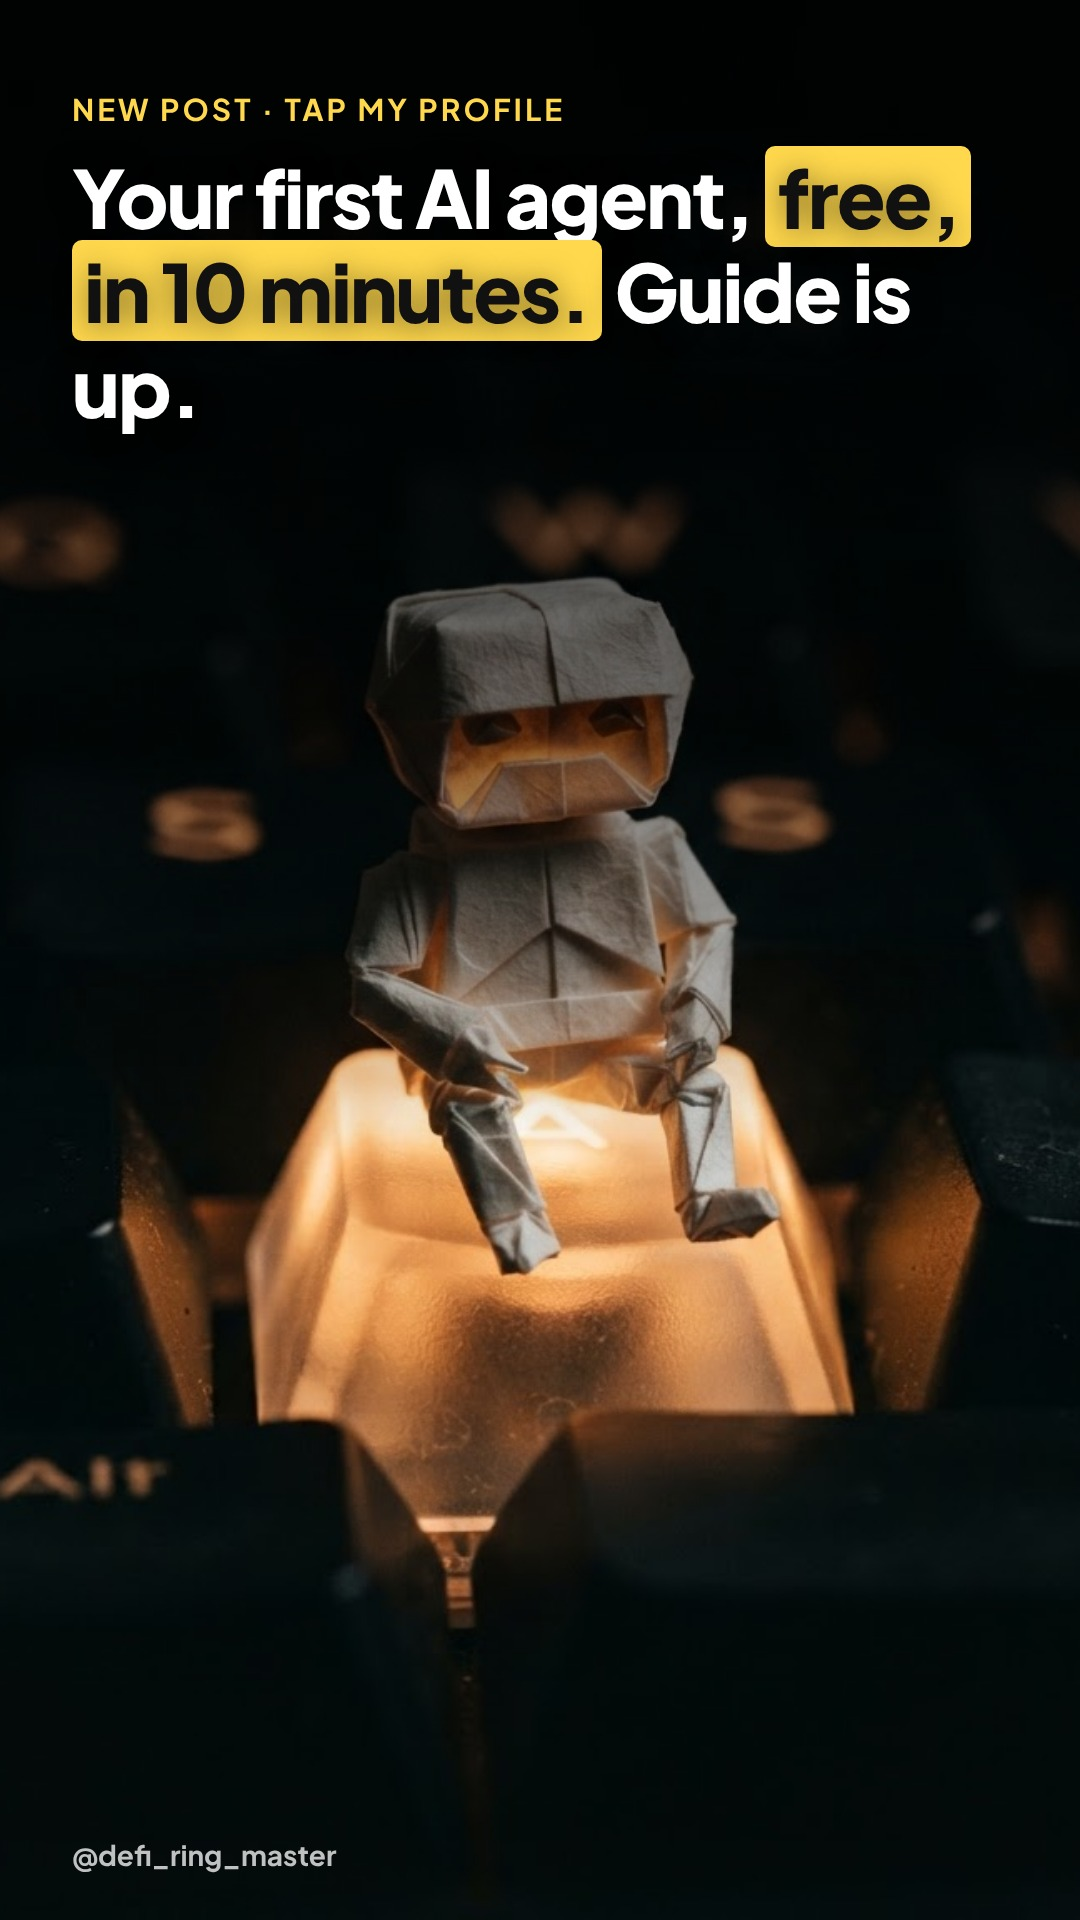
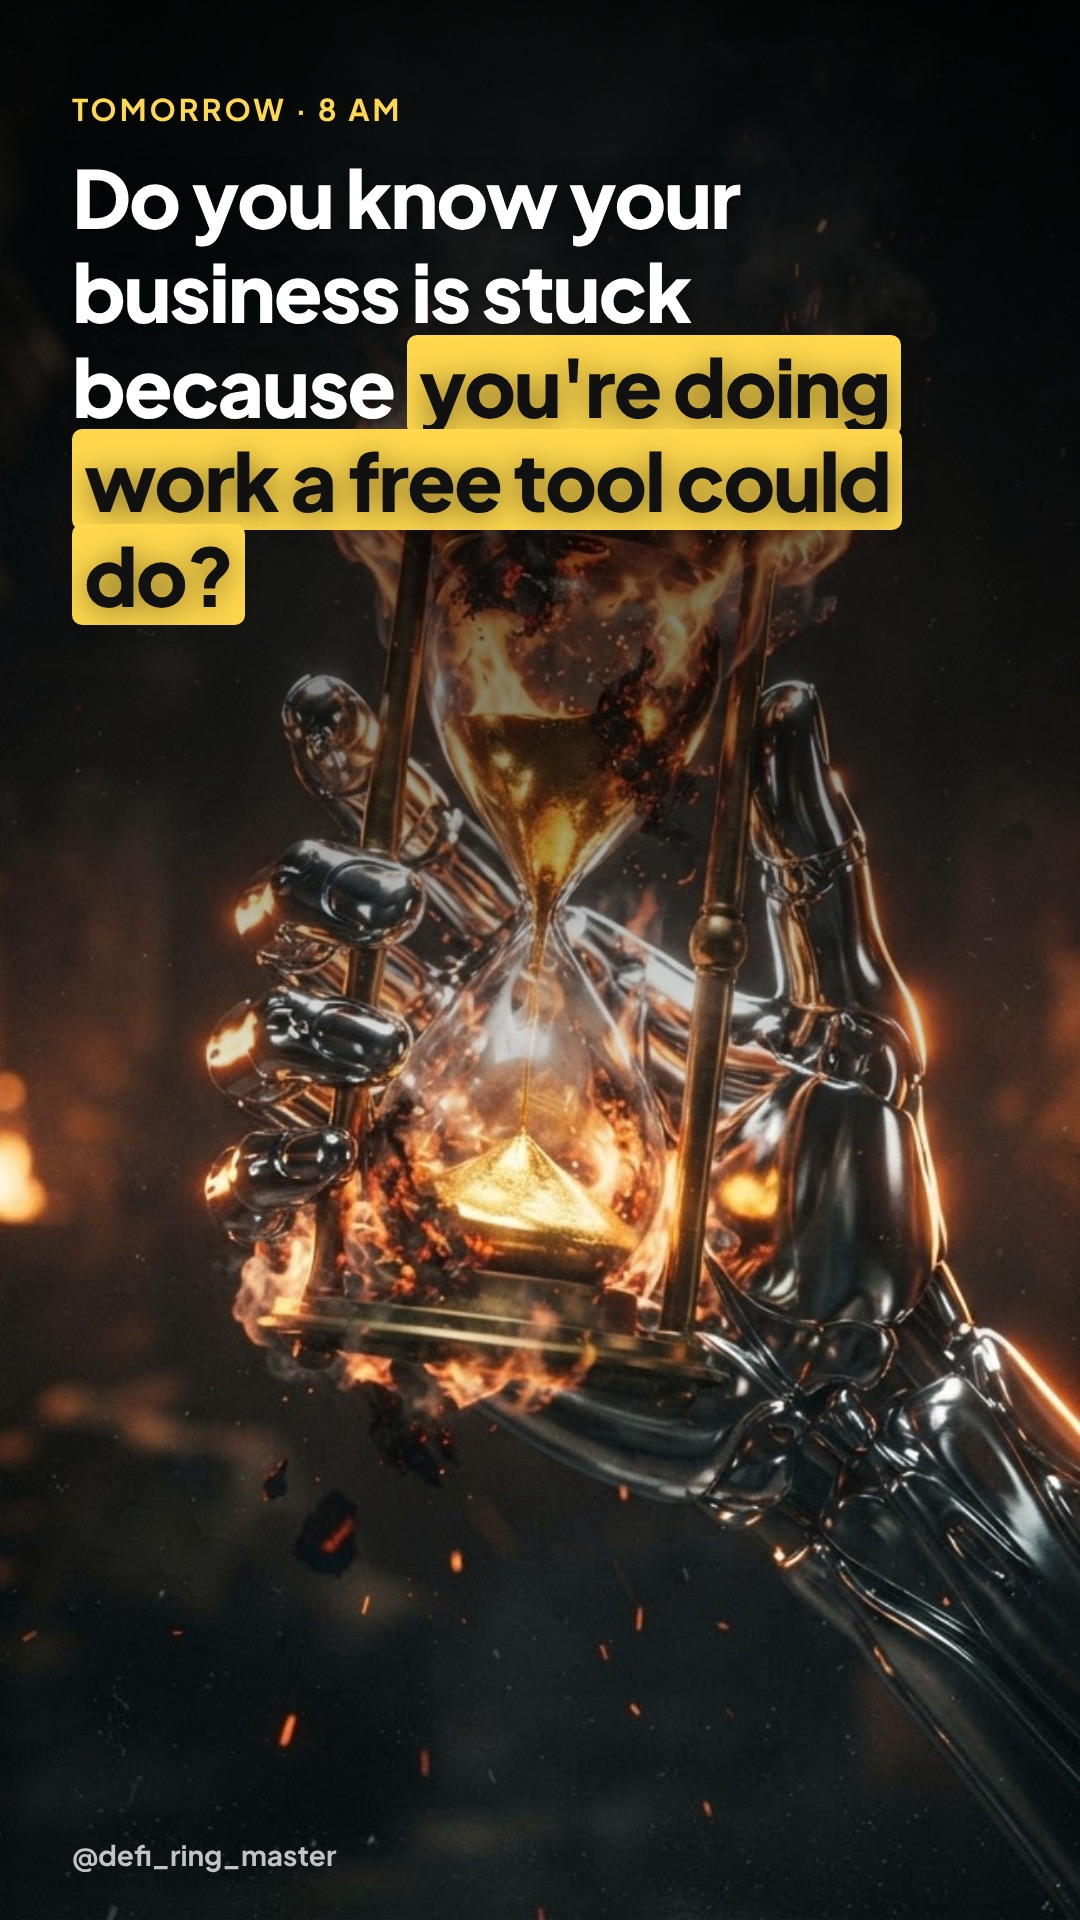
Daily 9 PM 'Do you know...?' teaser: feed post + story, logged in studio/teasers.md
Claude-Session: https://claude.ai/code/session_011gr5W81895y5ipiRdQPMjs

diff --git a/studio/days/day5.py b/studio/days/day5.py
@@ -193,13 +193,27 @@ gem_cap = """Build your first AI agent tonight. Free. No code. 🤖
 
 #ai #aiagents #gemini #nocode #productivity"""
 
+# ── 21:00 · Instagram feed + story · "Do you know…?" teaser for tomorrow's 8 AM post (Roland, 15 Oct).
+#    The promise must be kept: tomorrow's 8 AM post answers it. Logged in studio/teasers.md.
+TEASER = ("chrome-hourglass.jpg",
+          "Do you know your business is stuck because ==you're doing work a free tool could do?==",
+          "Tomorrow · 8 AM",
+          """Do you know your business is stuck because you're doing work a free tool could do? ⏳
+
+Tomorrow at 8 AM I'm showing you the tasks you can hand off this weekend, and the free tools that do them.
+
+🔔 Turn on notifications so you don't miss it
+📤 Send this to the business owner who's always "too busy"
+
+#smallbusiness #automation #ai #entrepreneur""")
+
 # ── Stories (Instagram only)
 STORIES = {
     "s0900": ("ice-server.jpg", "Every AI chat drinks a bottle of water. ==True or false?==", "New post · tap my profile"),
     "s1100": ("phone-glow.jpg", "What question do customers ask you ==10 times a day?==", "Reply 👇"),
     "s1400": ("phone-glow.jpg", "WhatsApp can now ==reply for you.== How to turn it on is on my page.", "New post · tap my profile"),
     "s1700": ("paper-robot.jpg", "Which boring task would you ==hand to an AI== first?", "Reply 👇"),
-    "s2100": ("paper-robot.jpg", "Your first AI agent, ==free, in 10 minutes.== Guide is up.", "New post · tap my profile"),
+    "s2100": None,  # the teaser (below) is the 9 PM story
 }
 
 
@@ -234,8 +248,19 @@ def build():
             ims[0].save(MEDIA / f"{name}.pdf", save_all=True, append_images=ims[1:], resolution=150)
             d["linkedin"] = {"enabled": True, "text": li, "media": f"media/{name}.pdf", "media_title": title}
         (Q / f"{slot}.json").write_text(json.dumps(d, indent=1, ensure_ascii=False))
+    img, hook, kicker, cap = TEASER
+    cover(GEN / img, hook, IG / "teaser-0.jpg", kicker=kicker, swipe=False)
+    (Q / "2100.json").write_text(json.dumps({
+        "title": "Teaser: tomorrow 8 AM", "kind": "story", "x": {"enabled": False}, "linkedin": {"enabled": False},
+        "instagram": {"enabled": True, "caption": cap, "media": ["instagram/teaser-0.jpg"],
+                      "music": "Phil Collins – In the Air Tonight"}}, indent=1, ensure_ascii=False))
+    cover(GEN / img, hook, ST / "s2100.jpg", kicker=kicker, size=(1080, 1920), pos="top", swipe=False)
     st = []
-    for at, (img, text, foot) in STORIES.items():
+    for at, v in STORIES.items():
+        if v is None:
+            st.append({"at": at[1:], "media": f"stories/{at}.jpg"})
+            continue
+        img, text, foot = v
         cover(GEN / img, text, ST / f"{at}.jpg", kicker=foot, size=(1080, 1920), pos="top", swipe=False)
         st.append({"at": at[1:], "media": f"stories/{at}.jpg"})
     (Q / "stories.json").write_text(json.dumps(st, indent=2))

diff --git a/studio/NIGHTLY.md b/studio/NIGHTLY.md
@@ -23,6 +23,7 @@ Old approach is retired: no curriculum lessons, no basic explainers (what is a w
   - End with one specific question people can answer from their own experience. Never "thoughts?", "agree?" or the other banned phrases.
   - 900–1,600 characters, no hashtags or emoji, sources named at the end.
 - **Stories:** 5 a day made with `cover(..., size=(1080, 1920), pos="top", swipe=False)` from the same images: two "new post · tap my profile" teasers, and three questions people can reply to.
+- **Daily 9 PM teaser (Roland, 15 Oct):** one "Do you know…?" question on a generated image, posted as an Instagram feed post (slot `2100.json`, Instagram only) and as the 9 PM story. It teases tomorrow's 8 AM post, so pick tomorrow's 8 AM topic first. Rules and the log are in `studio/teasers.md`: before writing the 8 AM post, check what yesterday's teaser promised and answer it exactly.
 - Template: `studio/days/day5.py` (builds slots, covers, carousels and stories in one go).
 
 ## Steps
@@ -35,7 +36,7 @@ Old approach is retired: no curriculum lessons, no basic explainers (what is a w
    - Look at the Instagram stats: what got reach, saves and shares? Do more of that. Report it in step 7.
 4. **Content:** copy `studio/days/day5.py` to `dayN.py`, generate 3 cover images, rewrite the copy, run it.
 5. **Check:** build contact sheets and look at every slide and story. Fix any overflow, clipped text or wrong counter.
-6. **Slots:** `dayN.py` writes `queue/<tomorrow>/{0800,1300,1900}.json` and `stories.json`. LinkedIn and Instagram both on in all three slots. Instagram caption: 3–5 hashtags and a 📌 save / 📤 send line. Lint all slots and stories (`autopilot.lint.lint_stories(folder)`), fix every FAIL. Commit "Day N queue" and push. Confirm the review issue opened.
+6. **Slots:** `dayN.py` writes `queue/<tomorrow>/{0800,1300,1900,2100}.json` and `stories.json`. LinkedIn and Instagram both on in all three slots. Instagram caption: 3–5 hashtags and a 📌 save / 📤 send line. Lint all slots and stories (`autopilot.lint.lint_stories(folder)`), fix every FAIL. Commit "Day N queue" and push. Confirm the review issue opened.
 7. **Tell Roland (SendUserMessage):** the three titles and times, the search demand behind each topic, yesterday's Instagram numbers, the story times, and the review issue link. Send the three covers with SendUserFile. Also ask him one short question that would make a good story (something that really happened to him with AI, crypto or building). When he answers, add it to `studio/story_bank.md` (the repo is public, so only add what he's happy to post).
 8. **Book tomorrow's run:** call send_later at 18:10 UTC the next day with the message:
    "Nightly build: follow /home/claude/autopilot/studio/NIGHTLY.md (clone RolandDivine/autopilot first if it's missing)."

diff --git a/studio/teasers.md b/studio/teasers.md
@@ -1,0 +1,12 @@
+# "Do you know…?" teasers (Roland, 15 Oct 2026)
+
+One a day at 9 PM, Instagram feed post + the 9 PM story. A big "Do you know…?" question on a generated
+image that opens a curiosity gap about tomorrow's 8 AM post. Rules:
+- The promise must be kept: the next day's 8 AM post answers it directly. Log every teaser below and check
+  this list before writing the next day's 8 AM post.
+- Frame it as "Do you know why / Do you know you're…", aimed at a problem the reader recognises. Never insult
+  the reader, never promise money or results, never tease something we can't deliver.
+
+| Teaser date | Question | Paid off by |
+|---|---|---|
+| 2026-10-16 | Do you know your business is stuck because you're doing work a free tool could do? | 2026-10-17 0800: tasks a small business can automate this weekend + free tools |
